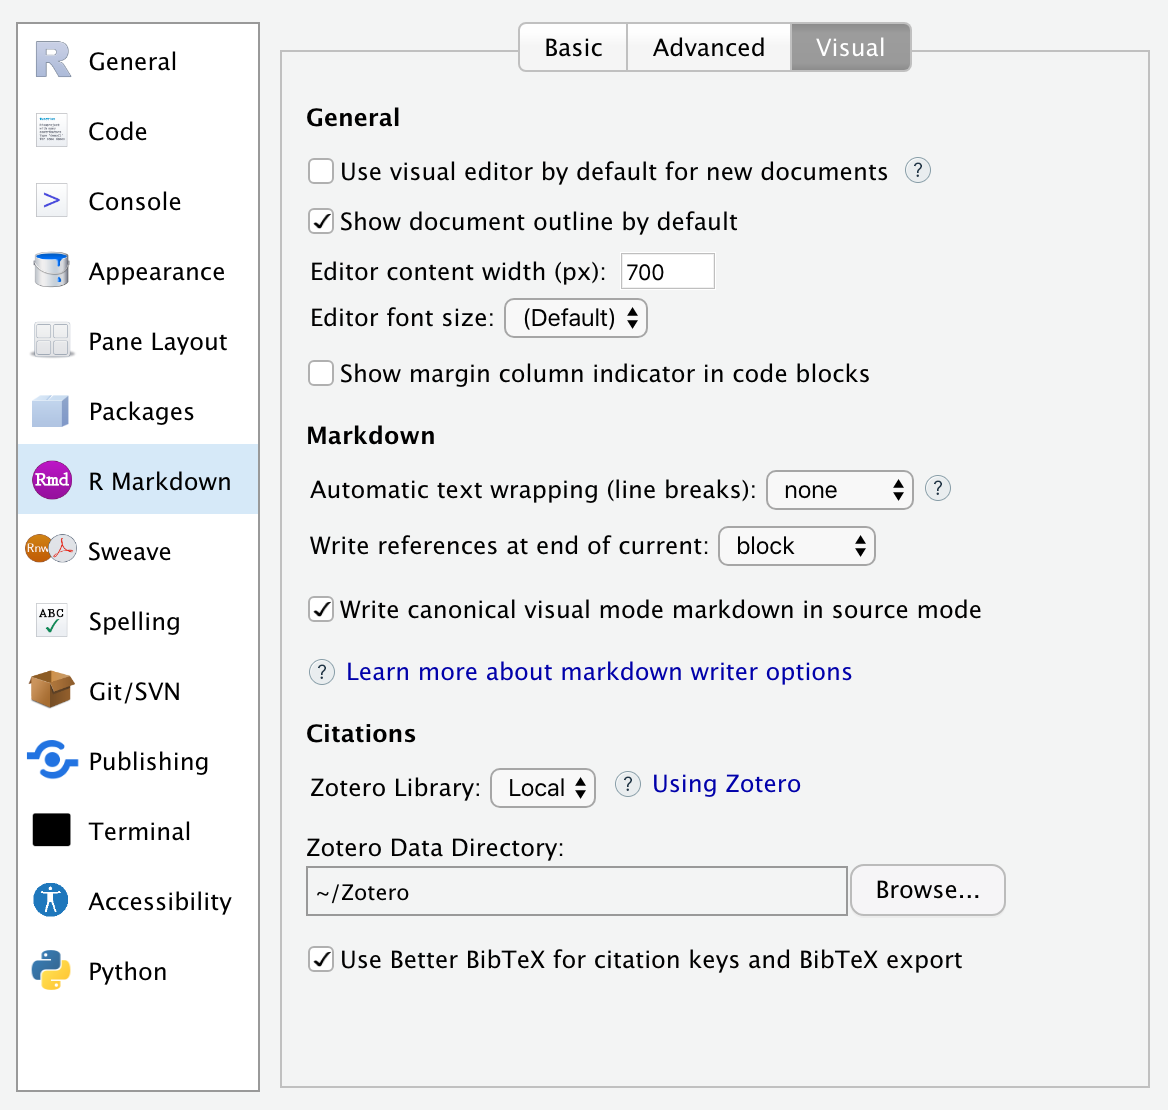
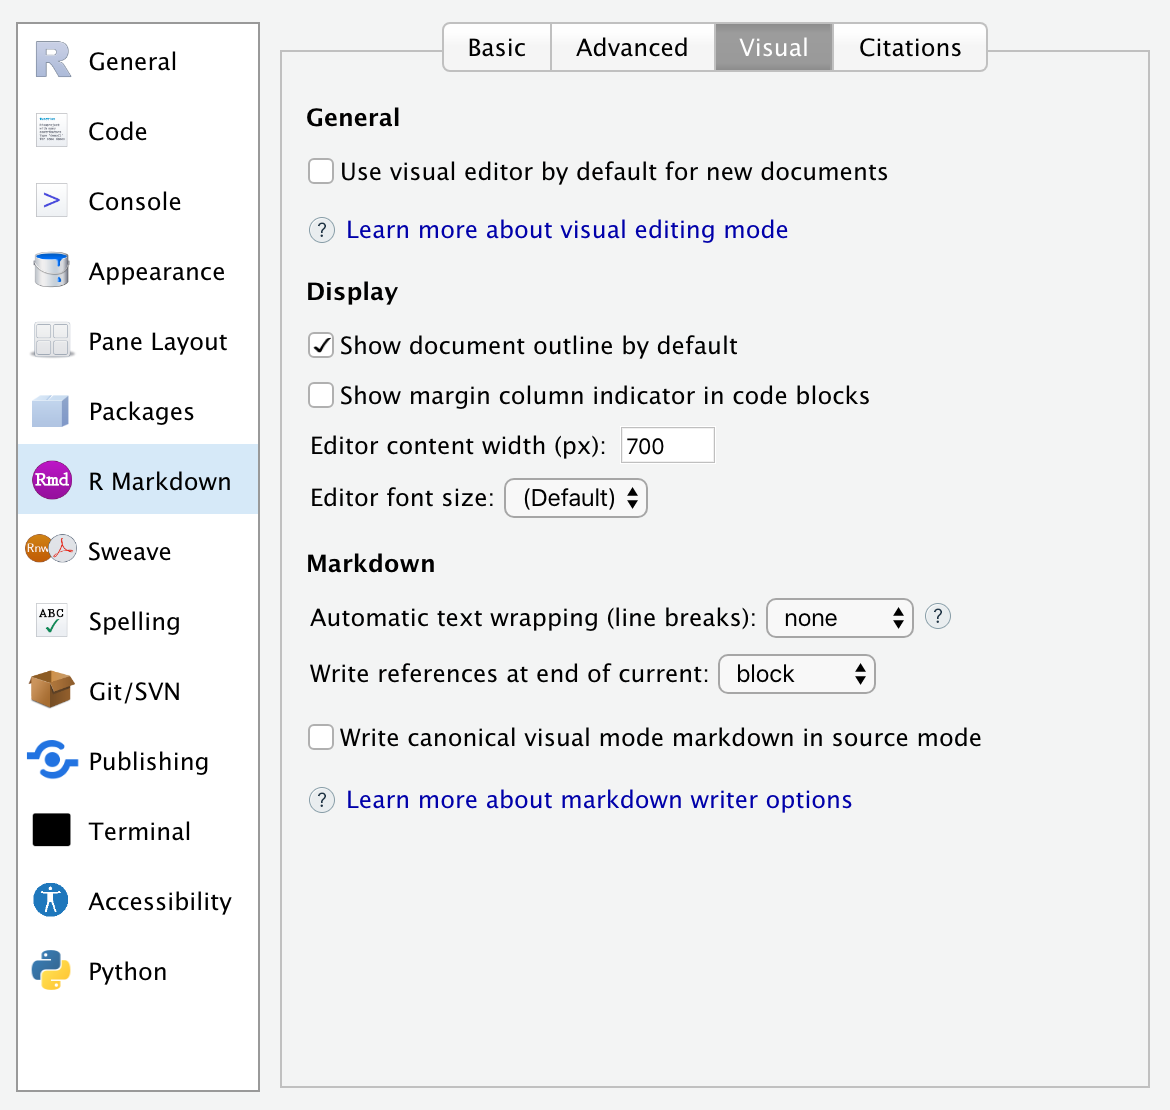
update options screenshots

diff --git a/docs/options.md b/docs/options.md
@@ -2,9 +2,9 @@
 
 ## Global Options
 
-You can customize visual editing options within the **R Markdown -\> Visual** preferences:
+You can customize visual editing options within **R Markdown -\> Visual**:
 
-<img src="images/visual-editing-options.png" class="illustration" width="584"/>
+<img src="images/visual-editing-options.png" class="illustration" width="585"/>
 
 | Option                                                 | Description                                                                                                                                                                                          |
 |--------------------------------------------------------|------------------------------------------------------------------------------------------------------------------------------------------------------------------------------------------------------|
@@ -16,9 +16,17 @@ You can customize visual editing options within the **R Markdown -\> Visual** pr
 | Automatic text wrapping (line breaks)                  | When writing markdown, automatically insert line breaks after sentences or at a specified column (default: flow text; no auto-wrapping). See [Line Wrapping](markdown?id=line-wrapping) for details. |
 | Write references at end of current                     | Write references (footnotes) at the end of the block or section where they appear, or at the end of the document. See [References](markdown?id=references) for details.                              |
 | Write canonical visual mode markdown in source mode    | Use the visual mode markdown writer when saving markdown from source mode (ensure consistency between documents saved from either mode).                                                             |
+
+You can customize visual editor citation options within **R Markdown -\> Citations**:
+
+<img src="images/visual-editing-options-citations.png" class="illustration" width="585"/>
+
+| Option                                                 | Description                                                                                                                                                                                          |
+|--------------------------------------------------------|------------------------------------------------------------------------------------------------------------------------------------------------------------------------------------------------------|
 | Zotero Library                                         | Location of [Zotero](citations#citations-from-zotero) citation library (Local or Web).                                                                                                               |
 | Zotero Data Directory                                  | Location of Zotero local data directory.                                                                                                                                                             |
 | Use Better BibTeX for citation keys and BibTeX export. | Optionally use [Better BibTeX](https://retorque.re/zotero-better-bibtex/) to generate citation keys and export BibTeX from Zotero (this option appears only if Better BibTeX is installed).          |
+
 
 ## Project Options
 

diff --git a/docs/citations.md b/docs/citations.md
@@ -93,7 +93,7 @@ Once you've configured your library to sync, you need to [create a Zotero API Ke
 
 Follow the instructions to create a key (the defaults which provide read-only access are fine), and then be sure to **record your key** after generating it (i.e. copy it to the clipboard and/or save it somewhere more permanent) as you won't be able to view it again after you navigate away.
 
-Finally, go to the **R Markdown -\> Visual** preferences to connect Zotero to RStudio using your key:
+Finally, go to the **R Markdown -\> Citations** preferences to connect Zotero to RStudio using your key:
 
 <img src="images/visual-editing-citations-zotero-options.png" class="illustration" width="585"/>
 
